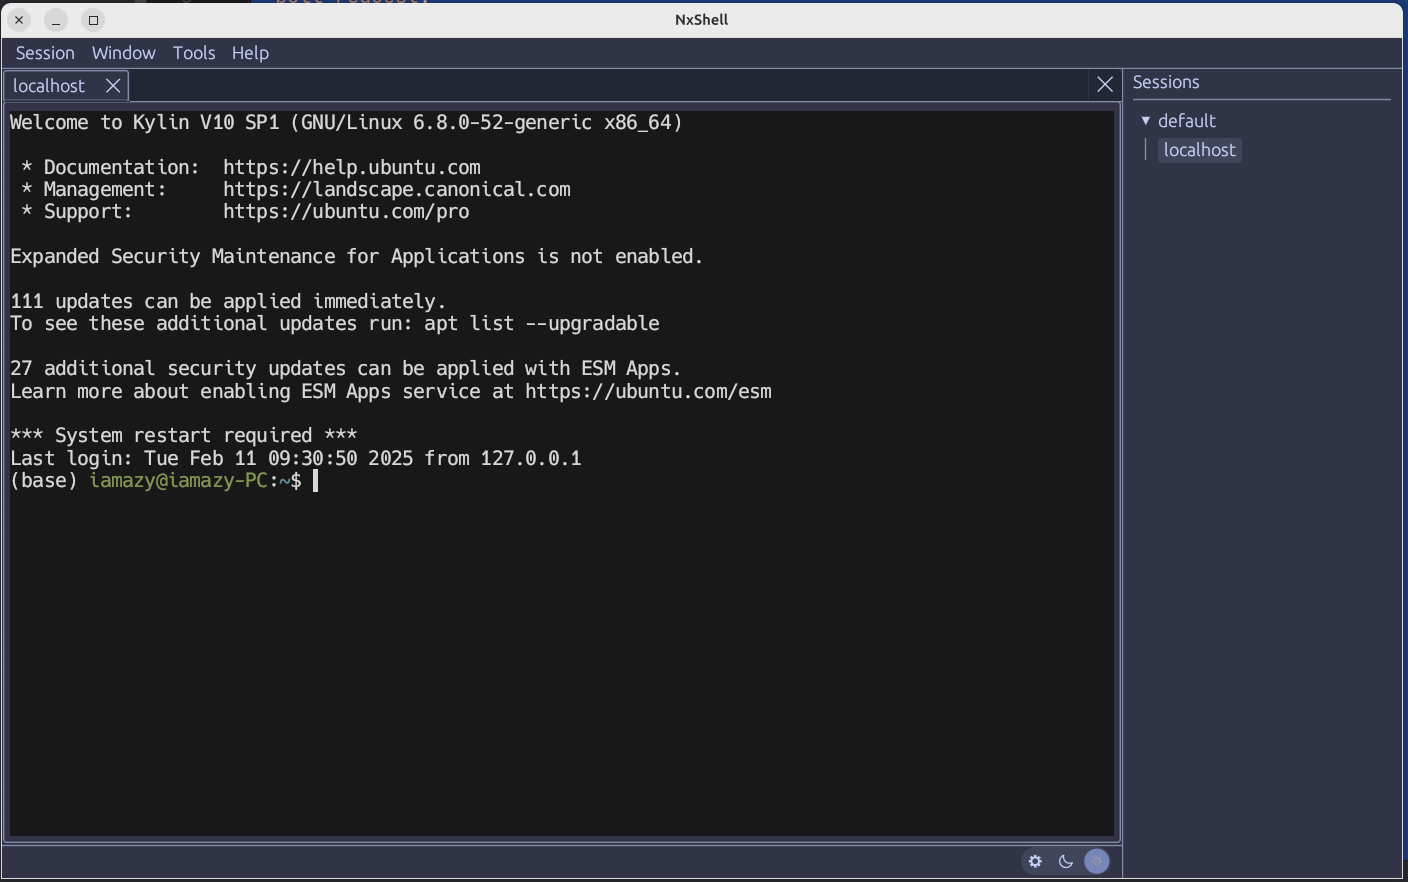
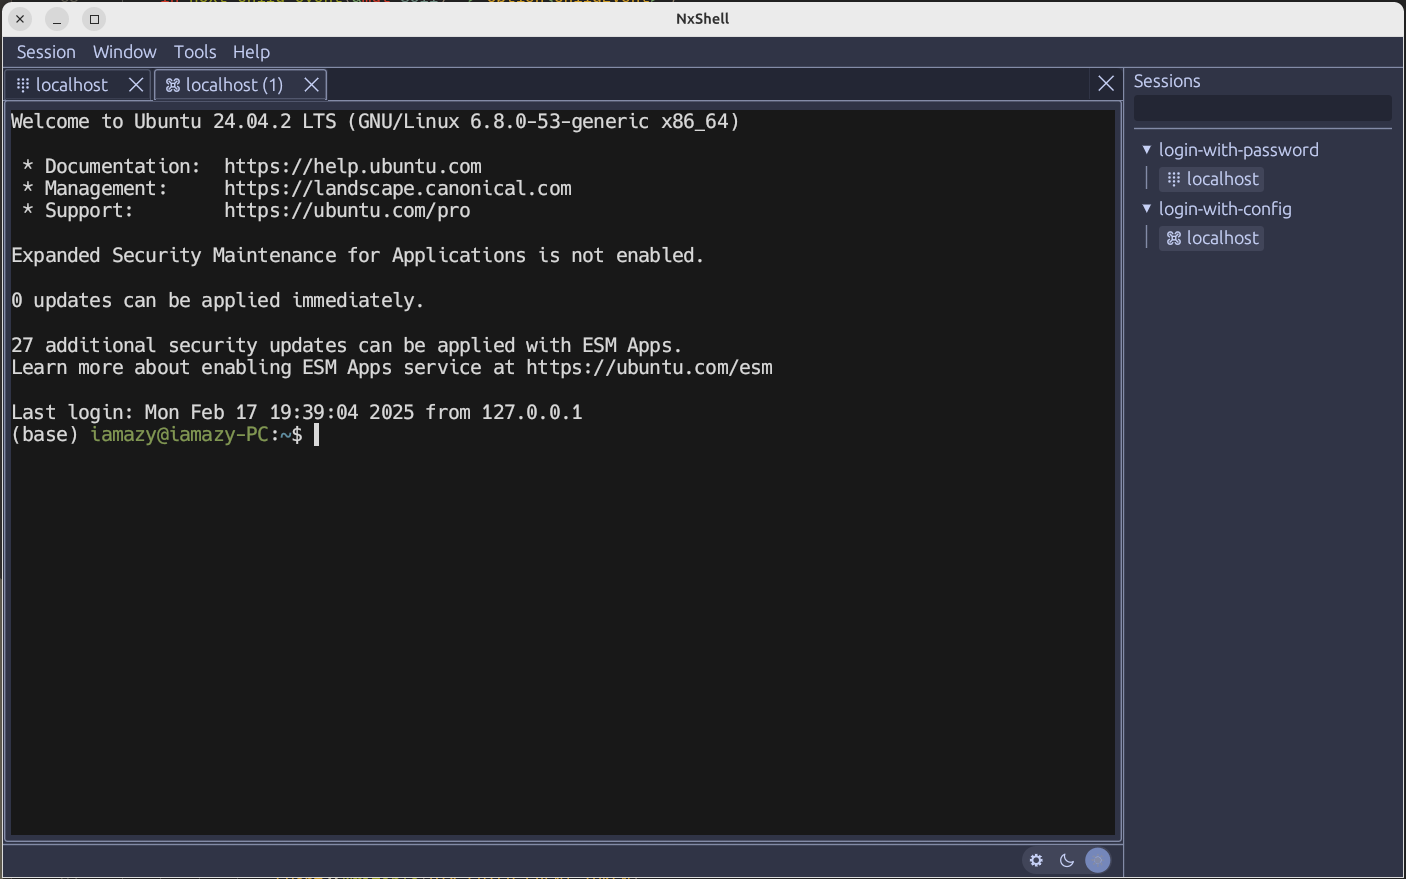
fix: using `UnixStream` as child process event signal in Unix like OS (#20)
* fix: using `UnixStream` as child process event signal in Unix like OS

* Update screenshot.png

* chore: clean code

* Update mod.rs

* Update mod.rs

Changed region(s): [[0.0, 0.0, 1.0, 1.0]]

diff --git a/crates/egui-term/src/ssh/mod.rs b/crates/egui-term/src/ssh/mod.rs
@@ -5,7 +5,6 @@ use alacritty_terminal::tty::{ChildEvent, EventedPty, EventedReadWrite};
 use anyhow::Context;
 use polling::{Event, PollMode, Poller};
 use std::collections::HashMap;
-use std::net::{TcpListener, TcpStream};
 use std::sync::Arc;
 use tracing::{error, trace};
 use wezterm_ssh::{
@@ -14,10 +13,23 @@ use wezterm_ssh::{
 };
 
 #[cfg(unix)]
-use std::os::fd::{AsFd, AsRawFd};
+use signal_hook::{
+    consts,
+    low_level::{pipe, unregister},
+    SigId,
+};
+
+#[cfg(unix)]
+use std::os::{
+    fd::{AsFd, AsRawFd},
+    unix::net::UnixStream,
+};
 
 #[cfg(windows)]
-use std::os::windows::io::{AsRawSocket, AsSocket};
+use std::{
+    net::{TcpListener, TcpStream},
+    os::windows::io::{AsRawSocket, AsSocket},
+};
 
 // Interest in PTY read/writes.
 #[cfg(unix)]
@@ -30,12 +42,22 @@ const PTY_CHILD_EVENT_TOKEN: usize = 1;
 pub struct Pty {
     pub pty: SshPty,
     pub child: SshChildProcess,
-    pub signal: TcpStream,
+    #[cfg(unix)]
+    pub signals: UnixStream,
+    #[cfg(unix)]
+    pub sig_id: SigId,
+    #[cfg(windows)]
+    pub signals: TcpStream,
 }
 
 impl Drop for Pty {
     fn drop(&mut self) {
         let _ = self.child.kill();
+
+        // Clear signal-hook handler.
+        #[cfg(unix)]
+        unregister(self.sig_id);
+
         let _ = self.child.wait();
     }
 }
@@ -66,7 +88,7 @@ impl EventedReadWrite for Pty {
         interest.key = PTY_READ_WRITE_TOKEN;
         let _ = self.pty.reader.set_non_blocking(true);
         let _ = self.pty.writer.set_non_blocking(true);
-        let _ = self.signal.set_nonblocking(true);
+        let _ = self.signals.set_nonblocking(true);
 
         #[cfg(unix)]
         {
@@ -74,8 +96,8 @@ impl EventedReadWrite for Pty {
             poller.add_with_mode(self.pty.writer.as_raw_fd(), interest, mode)?;
 
             poller.add_with_mode(
-                self.signal.as_raw_fd(),
-                Event::readable(PTY_CHILD_EVENT_TOKEN),
+                &self.signals,
+                Event::writable(PTY_CHILD_EVENT_TOKEN),
                 PollMode::Level,
             )?;
         }
@@ -86,8 +108,8 @@ impl EventedReadWrite for Pty {
             poller.add_with_mode(self.pty.writer.as_raw_socket(), interest, mode)?;
 
             poller.add_with_mode(
-                self.signal.as_raw_socket(),
-                Event::readable(crate::ssh::PTY_CHILD_EVENT_TOKEN),
+                self.signals.as_raw_socket(),
+                Event::readable(PTY_CHILD_EVENT_TOKEN),
                 PollMode::Level,
             )?;
         }
@@ -109,8 +131,8 @@ impl EventedReadWrite for Pty {
             poller.modify_with_mode(self.pty.writer.as_fd(), interest, mode)?;
 
             poller.modify_with_mode(
-                self.signal.as_fd(),
-                Event::readable(PTY_CHILD_EVENT_TOKEN),
+                &self.signals,
+                Event::writable(PTY_CHILD_EVENT_TOKEN),
                 PollMode::Level,
             )?;
         }
@@ -121,8 +143,8 @@ impl EventedReadWrite for Pty {
             poller.modify_with_mode(self.pty.writer.as_socket(), interest, mode)?;
 
             poller.modify_with_mode(
-                self.signal.as_socket(),
-                Event::readable(crate::ssh::PTY_CHILD_EVENT_TOKEN),
+                self.signals.as_socket(),
+                Event::readable(PTY_CHILD_EVENT_TOKEN),
                 PollMode::Level,
             )?;
         }
@@ -136,7 +158,7 @@ impl EventedReadWrite for Pty {
             poller.delete(self.pty.reader.as_fd())?;
             poller.delete(self.pty.writer.as_fd())?;
 
-            poller.delete(self.signal.as_fd())?;
+            poller.delete(&self.signals)?;
         }
 
         #[cfg(windows)]
@@ -144,7 +166,7 @@ impl EventedReadWrite for Pty {
             poller.delete(self.pty.reader.as_socket())?;
             poller.delete(self.pty.writer.as_socket())?;
 
-            poller.delete(self.signal.as_socket())?;
+            poller.delete(self.signals.as_socket())?;
         }
 
         Ok(())
@@ -206,10 +228,6 @@ impl Pty {
                         verify.answer(true).await.context("send verify response")?;
                     }
                     SessionEvent::Authenticate(auth) => {
-                        for a in auth.prompts.iter() {
-                            println!("prompt: {}", a.prompt);
-                        }
-
                         let mut answers = vec![];
                         for prompt in auth.prompts.iter() {
                             if prompt.prompt.contains("Password") {
@@ -234,15 +252,43 @@ impl Pty {
 
             // FIXME: set in settings
             let mut env = HashMap::new();
-            env.insert("LANG".to_string(), "zh_CN.utf8".to_string());
+            env.insert("LANG".to_string(), "en_US.UTF-8".to_string());
             env.insert("LC_COLLATE".to_string(), "C".to_string());
 
             let (pty, child) = session
                 .request_pty("xterm-256color", PtySize::default(), None, Some(env))
                 .await?;
 
-            let signal = tcp_signal()?;
-            Ok(Pty { pty, child, signal })
+            #[cfg(unix)]
+            {
+                // Prepare signal handling before spawning child.
+                let (signals, sig_id) = {
+                    let (sender, recv) = UnixStream::pair()?;
+
+                    // Register the recv end of the pipe for SIGCHLD.
+                    let sig_id = pipe::register(consts::SIGCHLD, sender)?;
+                    recv.set_nonblocking(true)?;
+                    (recv, sig_id)
+                };
+
+                Ok(Pty {
+                    pty,
+                    child,
+                    signals,
+                    sig_id,
+                })
+            }
+
+            #[cfg(windows)]
+            {
+                let listener = TcpListener::bind("127.0.0.1:0")?;
+                let signals = TcpStream::connect(listener.local_addr()?)?;
+                Ok(Pty {
+                    pty,
+                    child,
+                    signals,
+                })
+            }
         })
     }
 }
@@ -260,9 +306,4 @@ pub struct SshOptions {
 pub enum Authentication {
     Password(String, String),
     Config,
-}
-
-fn tcp_signal() -> std::io::Result<TcpStream> {
-    let listener = TcpListener::bind("127.0.0.1:0")?;
-    TcpStream::connect(listener.local_addr()?)
 }

diff --git a/nxshell/src/ui/tab_view/mod.rs b/nxshell/src/ui/tab_view/mod.rs
@@ -79,6 +79,7 @@ impl egui_dock::TabViewer for TabViewer<'_> {
     type Tab = Tab;
 
     fn title(&mut self, tab: &mut Self::Tab) -> egui::WidgetText {
+        let tab_id = tab.id();
         match &mut tab.inner {
             TabInner::Term(term) => match term.term_type {
                 TermType::Ssh { ref options } => {
@@ -86,9 +87,19 @@ impl egui_dock::TabViewer for TabViewer<'_> {
                         Authentication::Config => DRONE,
                         Authentication::Password(..) => NUMPAD,
                     };
-                    format!("{icon} {}", options.name).into()
+                    if tab_id > 0 {
+                        format!("{icon} {} ({tab_id})", options.name).into()
+                    } else {
+                        format!("{icon} {}", options.name).into()
+                    }
                 }
-                TermType::Regular { .. } => "local".into(),
+                TermType::Regular { .. } => {
+                    if tab_id > 0 {
+                        format!("local ({tab_id})").into()
+                    } else {
+                        "local".into()
+                    }
+                }
             },
             TabInner::SessionList(_) => "sessions".into(),
         }
